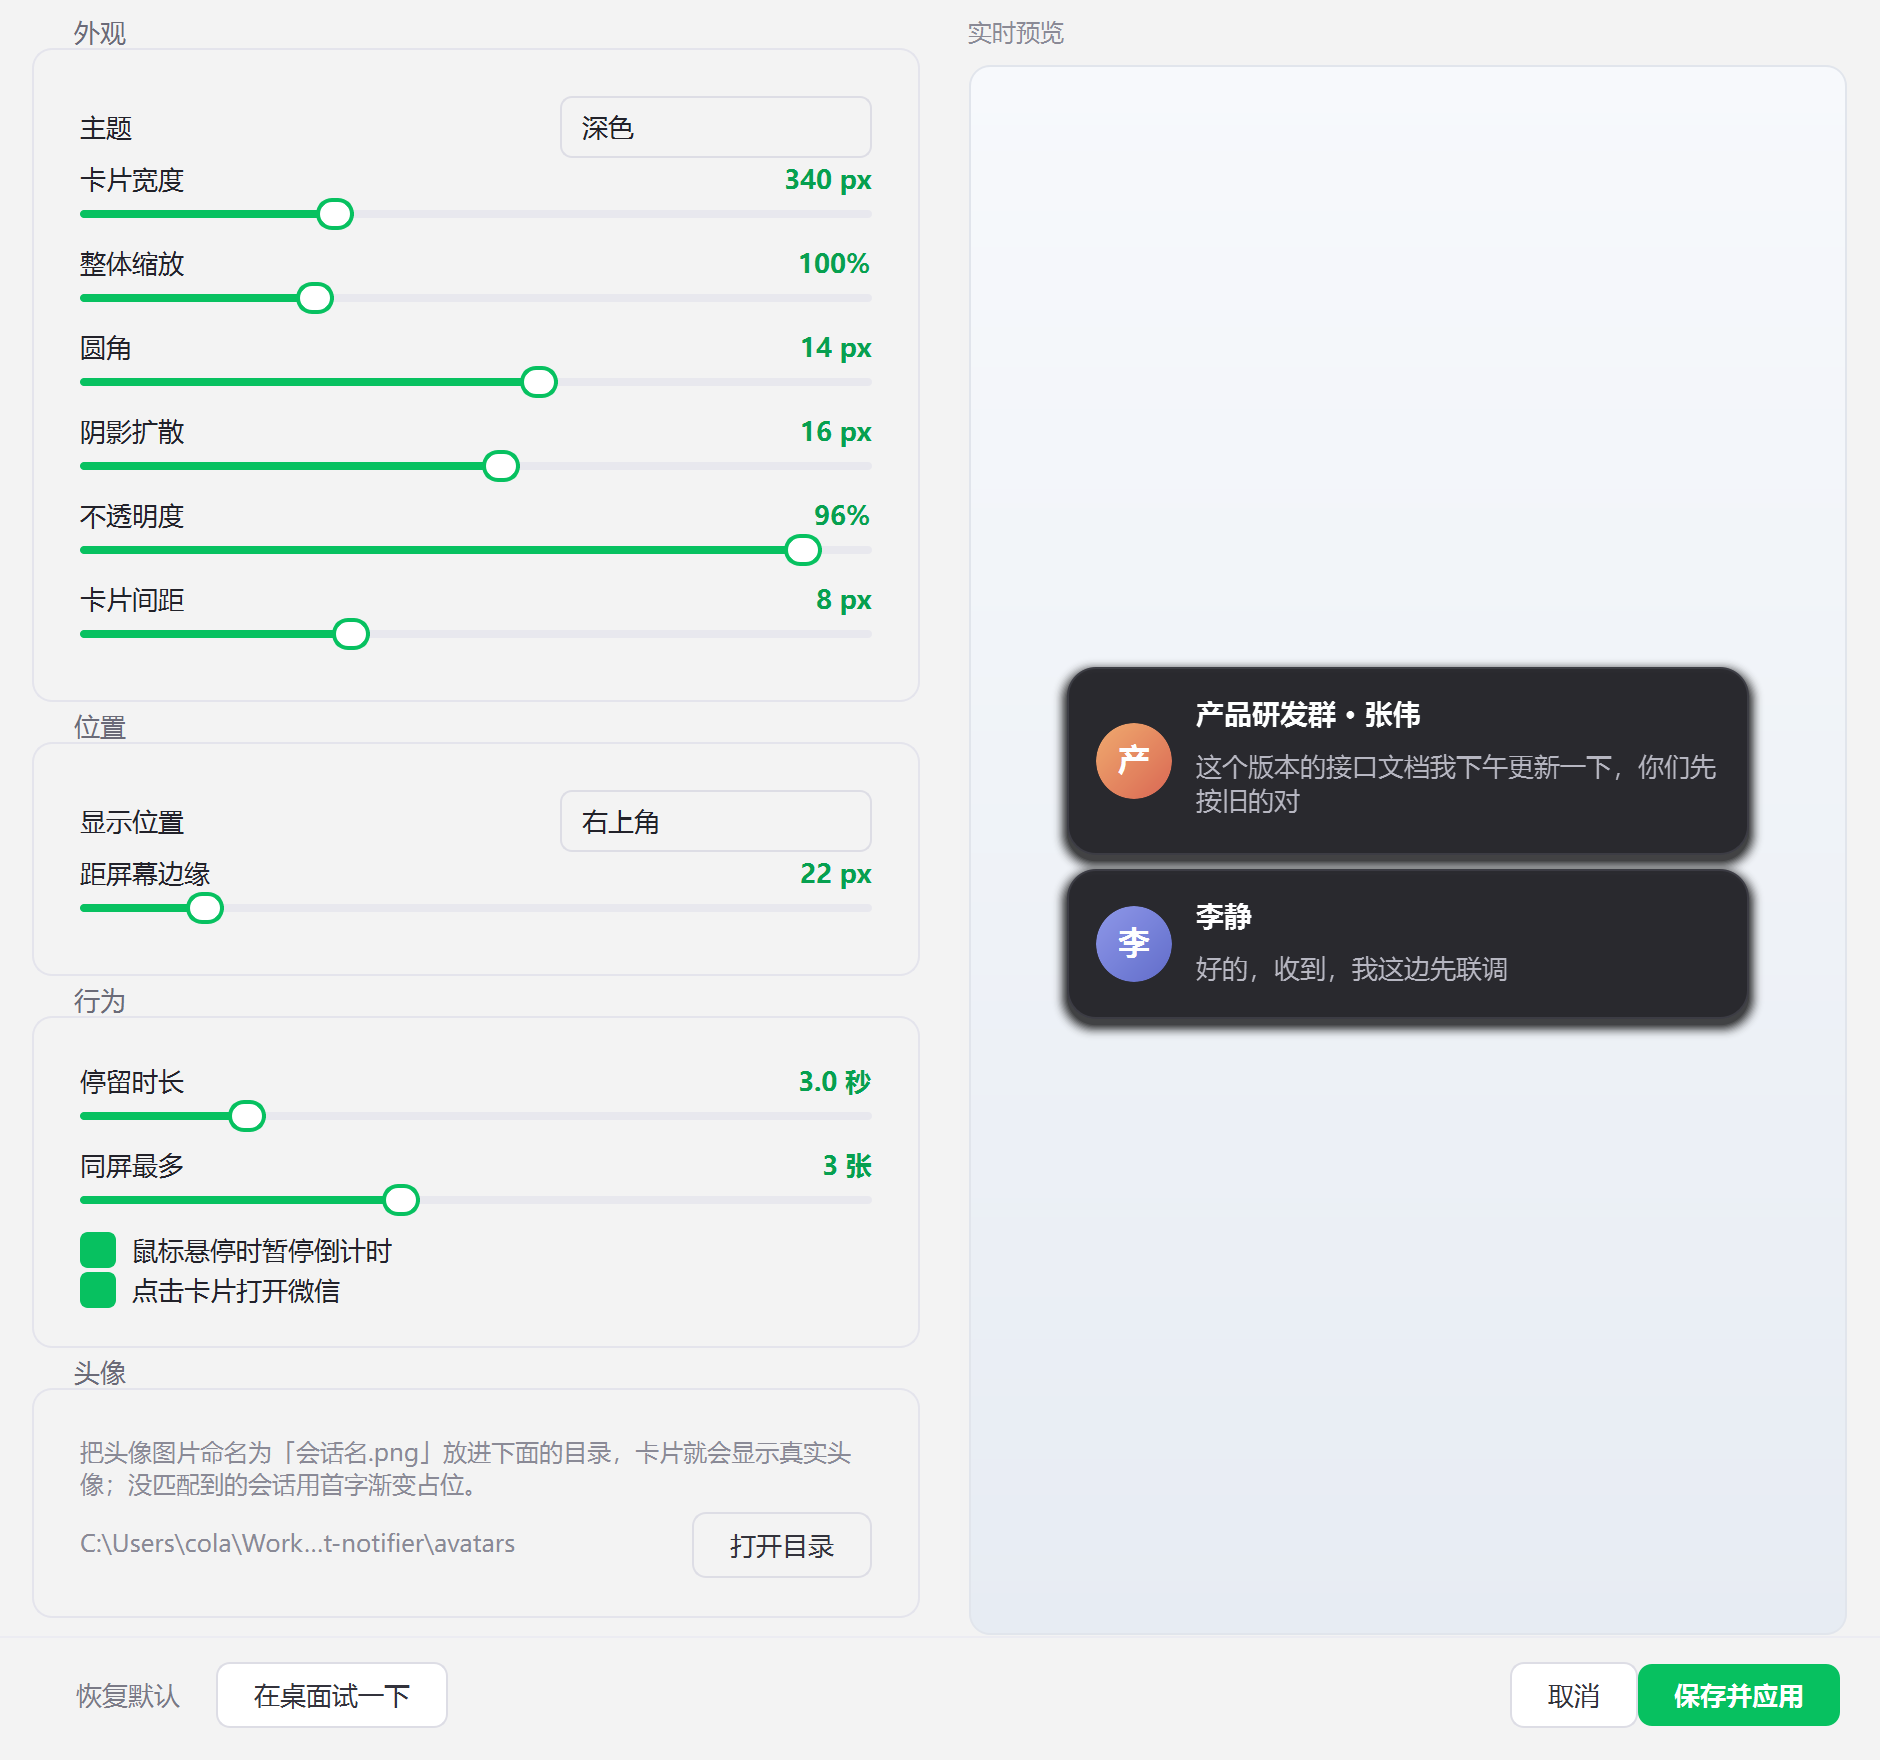
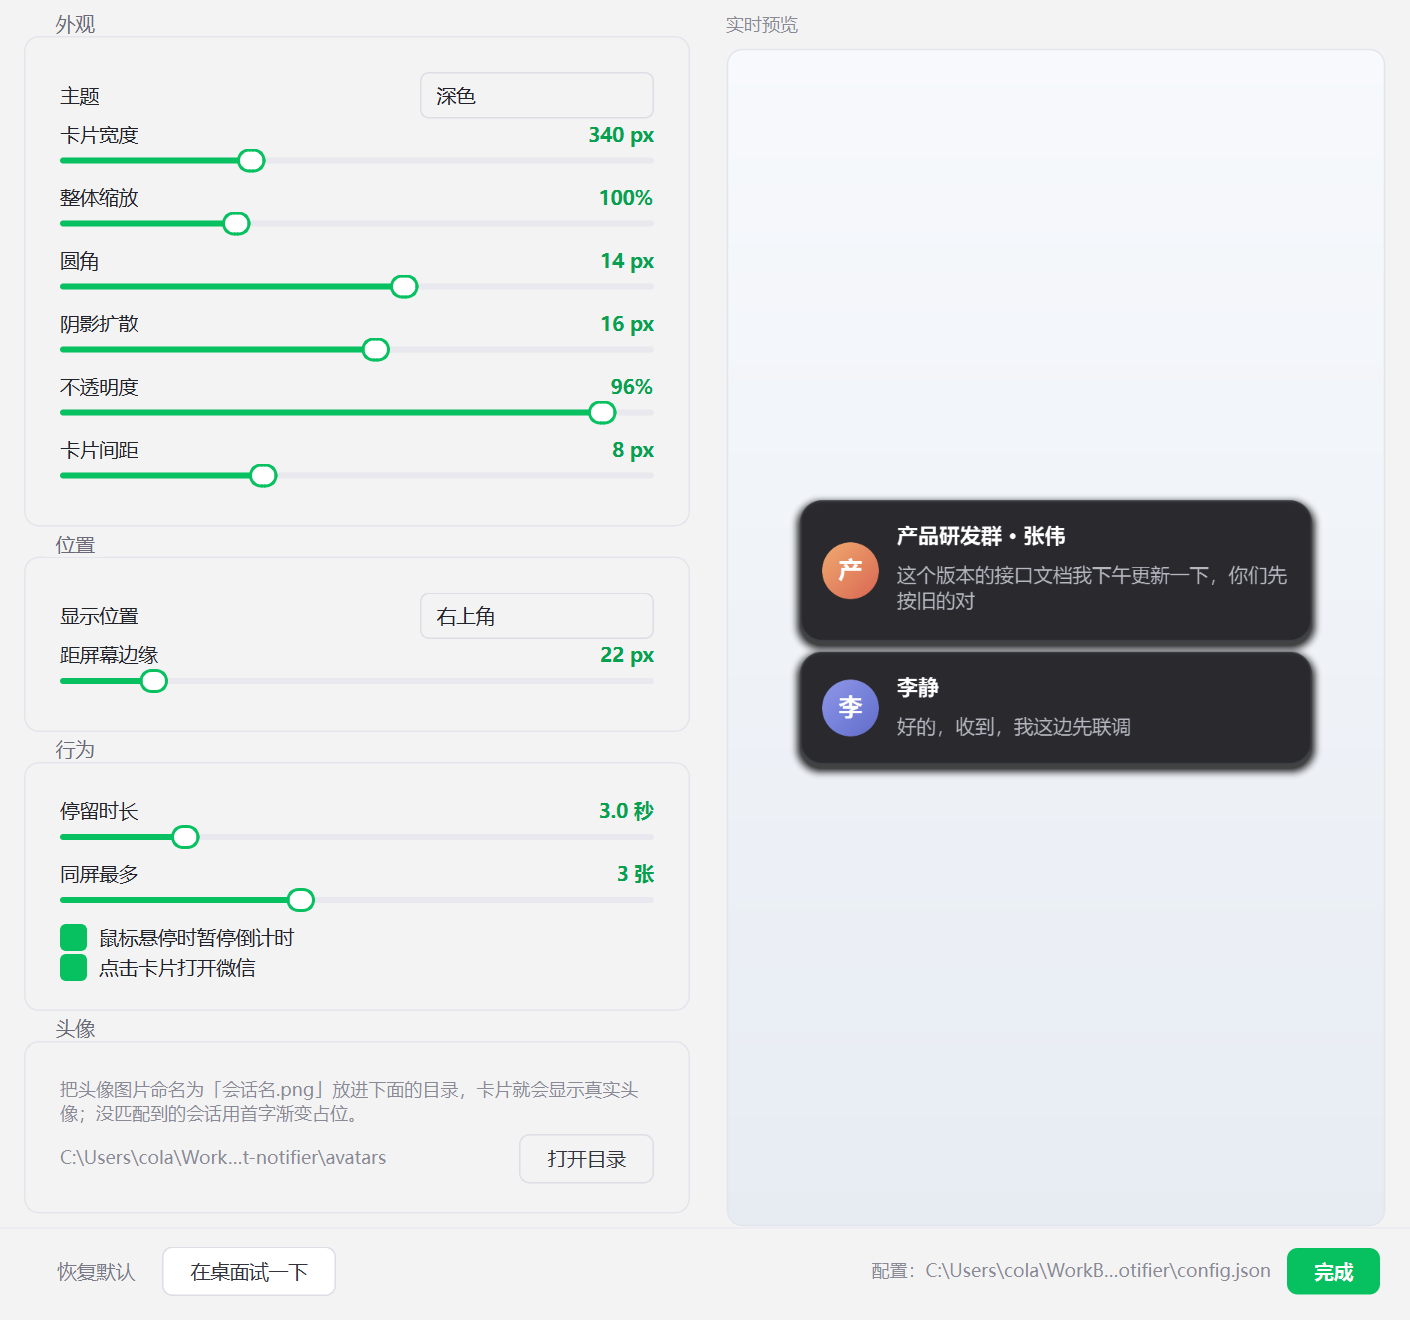
feat(config): 配置持久化到 APPDATA 并自动保存
- 配置目录改为 %APPDATA%\WeChatToast，exe 移动/覆盖不丢配置
- 首次启动自动迁移旧版 exe 同目录的 config.json
- 默认头像目录改为跟随配置目录，不再写死绝对路径
- 启动时自动修正越界值、缺失字段与旧路径
- 设置面板去掉「保存并应用」，改为停手 500ms 自动落盘，关闭窗口再存一次
- 底栏展示配置文件位置
- config.json 不再入库（运行时状态）

diff --git a/config.py b/config.py
@@ -4,6 +4,7 @@ from __future__ import annotations
 
 import json
 import os
+import shutil
 import sys
 
 APP_NAME = "WeChatToast"
@@ -50,15 +51,50 @@ RANGES: dict = {
 }
 
 
-def base_dir() -> str:
-    """源码运行取脚本目录，打包后取 exe 所在目录。"""
+def app_dir() -> str:
+    """程序所在目录：源码运行时是脚本目录，打包后是 exe 所在目录。"""
     if getattr(sys, "frozen", False):
         return os.path.dirname(sys.executable)
     return os.path.dirname(os.path.abspath(__file__))
 
 
+def config_dir() -> str:
+    """配置目录。
+
+    打包后固定放到 %APPDATA%\\WeChatToast，这样 exe 被移动、复制、重新下载都不会丢配置；
+    源码运行时直接用项目目录，方便开发调试。
+    """
+    if getattr(sys, "frozen", False):
+        root = os.environ.get("APPDATA") or os.path.expanduser("~")
+        d = os.path.join(root, "WeChatToast")
+    else:
+        d = app_dir()
+    os.makedirs(d, exist_ok=True)
+    return d
+
+
 def config_path() -> str:
-    return os.path.join(base_dir(), "config.json")
+    return os.path.join(config_dir(), "config.json")
+
+
+def default_avatar_dir() -> str:
+    """默认头像目录：跟着配置目录走，不跟 exe 位置绑死。"""
+    return os.path.join(config_dir(), "avatars")
+
+
+def _migrate_legacy() -> None:
+    """旧版把 config.json 放在 exe 同目录，这里迁移到配置目录，避免用户配置丢失。"""
+    if not getattr(sys, "frozen", False):
+        return
+
+    old = os.path.join(app_dir(), "config.json")
+    new = config_path()
+    if os.path.exists(old) and not os.path.exists(new):
+        try:
+            shutil.copy2(old, new)
+            print(f"[info] 已迁移旧配置: {old} -> {new}")
+        except Exception as e:
+            print(f"[warn] 配置迁移失败: {e}")
 
 
 def normalize(cfg: dict) -> dict:
@@ -81,31 +117,60 @@ def normalize(cfg: dict) -> dict:
     if not isinstance(out["ignore_sources"], list):
         out["ignore_sources"] = []
 
-    # 头像目录留空时落到程序目录下的 avatars
-    if not out.get("avatar_dir"):
-        out["avatar_dir"] = os.path.join(base_dir(), "avatars")
+    # 头像目录留空时落到配置目录下的 avatars
+    av = out.get("avatar_dir") or ""
+    # 旧版把默认头像目录记成了 exe 同目录的绝对路径，迁移后要重新指向新配置目录
+    if av and os.path.normcase(os.path.normpath(av)) == os.path.normcase(
+        os.path.normpath(os.path.join(app_dir(), "avatars"))
+    ) and os.path.normcase(os.path.normpath(av)) != os.path.normcase(
+        os.path.normpath(default_avatar_dir())
+    ):
+        av = ""
+    out["avatar_dir"] = av or default_avatar_dir()
 
     return out
 
 
+def _for_file(cfg: dict) -> dict:
+    """落盘用的形态：默认头像目录不写死进文件，避免换机器/换路径后失效。"""
+    out = dict(cfg)
+    if os.path.normcase(os.path.normpath(out["avatar_dir"])) == os.path.normcase(
+        os.path.normpath(default_avatar_dir())
+    ):
+        out["avatar_dir"] = ""
+    return out
+
+
 def load() -> dict:
+    _migrate_legacy()
     path = config_path()
     if not os.path.exists(path):
-        return dict(DEFAULT_CONFIG)
+        cfg = normalize(dict(DEFAULT_CONFIG))
+        _write(_for_file(cfg))
+        return cfg
     try:
         with open(path, "r", encoding="utf-8") as f:
-            return normalize(json.load(f))
+            raw = json.load(f)
     except Exception as e:
         print(f"[warn] 配置读取失败，使用默认值: {e}")
-        return dict(DEFAULT_CONFIG)
+        return normalize(dict(DEFAULT_CONFIG))
+
+    cfg = normalize(raw)
+    # 文件内容与规范化结果不一致时（缺字段、越界、旧路径）顺手修好，避免用户手动改
+    if _for_file(cfg) != raw:
+        _write(_for_file(cfg))
+    return cfg
 
 
-def save(cfg: dict) -> bool:
-    cfg = normalize(cfg)
+def _write(data: dict) -> bool:
     try:
         with open(config_path(), "w", encoding="utf-8") as f:
-            json.dump(cfg, f, ensure_ascii=False, indent=2)
+            json.dump(data, f, ensure_ascii=False, indent=2)
         return True
     except Exception as e:
         print(f"[error] 配置保存失败: {e}")
         return False
+
+
+def save(cfg: dict) -> bool:
+    return _write(_for_file(normalize(cfg)))

diff --git a/settings_window.py b/settings_window.py
@@ -236,6 +236,11 @@ class SettingsWindow(QWidget):
         self._preview_timer.setSingleShot(True)
         self._preview_timer.timeout.connect(self._refresh_preview)
 
+        # 改动后自动落盘，不需要手动点保存
+        self._autosave_timer = QTimer(self)
+        self._autosave_timer.setSingleShot(True)
+        self._autosave_timer.timeout.connect(self._autosave)
+
         self._build()
         self._load_from_cfg()
         self._refresh_preview()
@@ -303,18 +308,25 @@ class SettingsWindow(QWidget):
         btn_test = QPushButton("在桌面试一下")
         btn_test.clicked.connect(lambda: self.test_requested.emit(dict(self._cfg)))
 
-        btn_cancel = QPushButton("取消")
-        btn_cancel.clicked.connect(self.hide)
+        self.lb_saved = QLabel("")
+        self.lb_saved.setObjectName("hint")
 
-        btn_save = QPushButton("保存并应用")
-        btn_save.setObjectName("primary")
-        btn_save.clicked.connect(self._save)
+        # 配置落地位置放在底栏，用户随时能看到，又不占左栏高度
+        self.lb_cfg_path = QLabel()
+        self.lb_cfg_path.setObjectName("hint")
+        self.lb_cfg_path.setTextInteractionFlags(Qt.TextSelectableByMouse)
+
+        btn_close = QPushButton("完成")
+        btn_close.setObjectName("primary")
+        btn_close.clicked.connect(self.hide)
 
         bar.addWidget(btn_reset)
         bar.addWidget(btn_test)
+        bar.addWidget(self.lb_saved)
         bar.addStretch(1)
-        bar.addWidget(btn_cancel)
-        bar.addWidget(btn_save)
+        bar.addWidget(self.lb_cfg_path)
+        bar.addSpacing(10)
+        bar.addWidget(btn_close)
         root.addLayout(bar)
 
     def _build_appearance(self) -> QGroupBox:
@@ -458,6 +470,10 @@ class SettingsWindow(QWidget):
         self.lb_avatar_dir.setText(fm.elidedText(path, Qt.ElideMiddle, 230))
         self.lb_avatar_dir.setToolTip(path)
 
+        cfgp = cfgmod.config_path()
+        self.lb_cfg_path.setText("配置：" + fm.elidedText(cfgp, Qt.ElideMiddle, 240))
+        self.lb_cfg_path.setToolTip("配置自动保存在：\n" + cfgp)
+
         self._loading = False
 
     def _collect(self):
@@ -481,18 +497,31 @@ class SettingsWindow(QWidget):
         if self._loading:
             return
         self._collect()
-        self._preview_timer.start(90)      # 防抖，拖动滑块时不至于卡
+        self._preview_timer.start(90)       # 防抖，拖动滑块时不至于卡
+        self._autosave_timer.start(500)     # 停手半秒后自动落盘
 
     def _reset(self):
         self._cfg = dict(cfgmod.DEFAULT_CONFIG)
         self._load_from_cfg()
         self._refresh_preview()
+        self._autosave()
 
-    def _save(self):
+    def _autosave(self):
+        """把当前控件值写入配置文件并即时应用到运行中的程序。"""
         self._collect()
         if cfgmod.save(self._cfg):
             self.applied.emit(dict(self._cfg))
-            self.hide()
+            self.lb_saved.setText("已自动保存")
+            QTimer.singleShot(1800, lambda: self.lb_saved.setText(""))
+        else:
+            self.lb_saved.setText("保存失败，请检查目录权限")
+
+    def hideEvent(self, evt):
+        super().hideEvent(evt)
+        # 关窗口时兜底保存一次，防止防抖计时器还没触发
+        if self._autosave_timer.isActive():
+            self._autosave_timer.stop()
+            self._autosave()
 
     def show_window(self, cfg: Optional[dict] = None):
         if cfg is not None:

diff --git a/main.py b/main.py
@@ -134,7 +134,6 @@ def main() -> int:
         cfg.clear()
         cfg.update(new_cfg)
         manager.cfg = cfg
-        tray.showMessage(APP_TITLE, "设置已保存", QSystemTrayIcon.Information, 1500)
 
     settings.applied.connect(apply_cfg)
 
